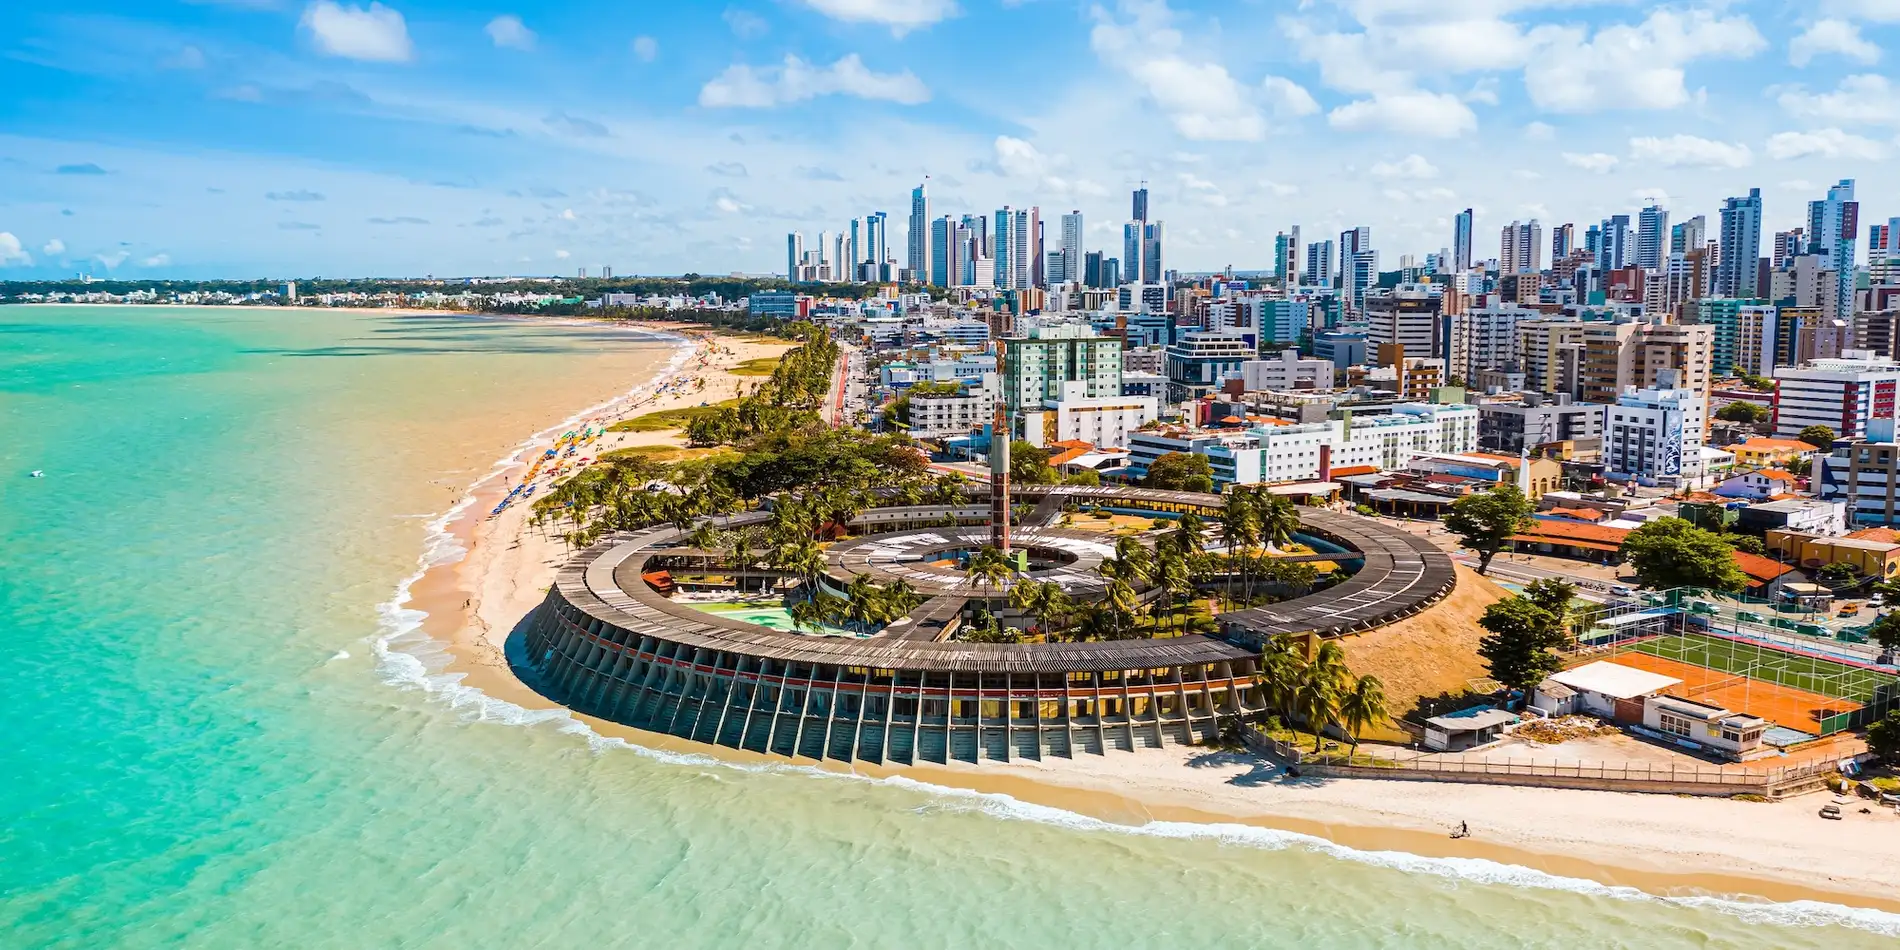
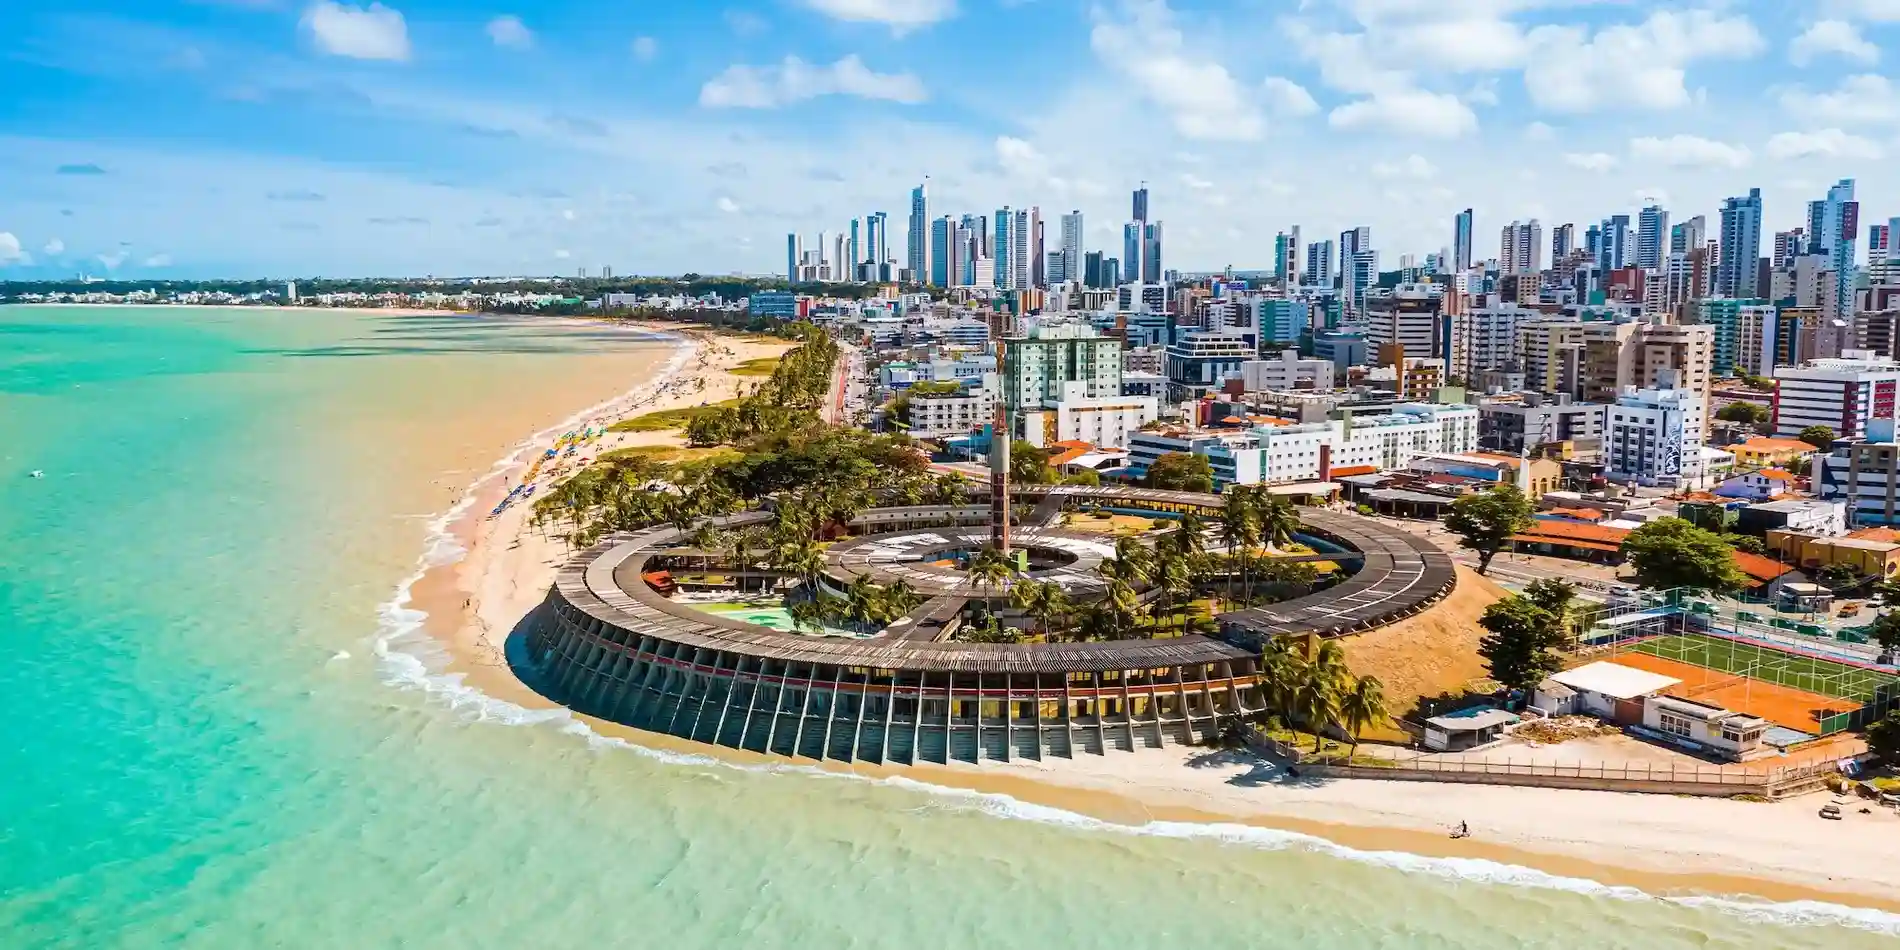
Update navigation links, enhance styles, and optimize images for better user experience

diff --git a/chamber/index.html b/chamber/index.html
@@ -12,7 +12,7 @@
     <meta property="og:type" content="website">
     <meta property="og:title" content="Home | João Pessoa Chamber of Commerce">
     <meta property="og:description" content="Connect with local businesses and discover opportunities in João Pessoa, Paraíba.">
-    <meta property="og:image" content="https://www.civitatis.com/blog/wp-content/uploads/2025/05/shutterstock_2360068173.jpg">
+    <meta property="og:image" content="https://aokami-aka.github.io/wdd231/chamber/images/chamber-logo.svg">
     <meta property="og:url" content="https://aokami-aka.github.io/wdd231/chamber/index.html">
 
     <title>Home | João Pessoa Chamber of Commerce</title>
@@ -49,12 +49,12 @@
 
         <nav class="primary-nav" id="primaryNav" aria-label="Main navigation">
             <a href="index.html" aria-current="page">Home</a>
-            <a href="" style="color: var(--nolink)">Discover</a>
+            <a href="discover.html">Discover</a>
             <a href="directory.html">Directory</a>
-            <a href="" style="color: var(--nolink)">Join</a>
-            <a href="" style="color: var(--nolink)">About</a>
-            <a href="" style="color: var(--nolink)">Podcast</a>
-            <a href="" style="color: var(--nolink)">Events</a>
+            <a href="join.html">Join</a>
+            <a href="about.html">About</a>
+            <a href="podcast.html">Podcast</a>
+            <a href="events.html">Events</a>
         </nav>
     </header>
 

diff --git a/chamber/styles/small.css b/chamber/styles/small.css
@@ -4,12 +4,8 @@
     --ink: #17212b;
     --nav: #183b4e;
     --nav-hover: #28596e;
-    --accent: #d97706;
-    --paper: #ffffff;
-    --surface: #eef2f4;
-    --line: #c8d2d8;
+    --accent: #a64b00;
     --muted: #485661;
-    --nolink: #c7c7c7;
 }
 
 * {
@@ -302,20 +298,26 @@ h1 {
 
 .member-grid.list-view {
     grid-template-columns: 1fr;
-    gap: .65rem;
+    gap: .5rem;
 }
 
 .list-view .member-card {
-    display: grid;
-    grid-template-columns: 1fr;
+    display: block;
 }
 
 .list-view .member-heading {
-    text-align: center;
+    border-bottom: 0;
+    text-align: left;
+    padding-left: 1rem;
 }
 
 .list-view .member-details {
-    grid-template-columns: 5rem minmax(0, 1fr);
+    display: block;
+    padding: .55rem 1rem;
+}
+
+.list-view .member-logo {
+    display: none;
 }
 
 /* FOOTER */
@@ -468,7 +470,7 @@ h1 {
     display: inline-block;
     padding: .75rem 1.3rem;
     color: white;
-    background: var(--accent);
+    background-color: #a64b00;
     border-radius: .4rem;
     text-decoration: none;
     font-weight: 700;
@@ -751,4 +753,18 @@ h1 {
         grid-template-columns: 3.5rem minmax(0, 1fr);
         gap: .5rem;
     }
+}
+
+/* List view: completely remove business images and their space */
+.member-grid.list-view .member-details {
+    display: block;
+}
+
+.member-grid.list-view .member-logo {
+    display: none !important;
+}
+
+.member-grid.list-view .member-info {
+    width: 100%;
+    min-width: 0;
 }

diff --git a/chamber/directory.html b/chamber/directory.html
@@ -36,12 +36,12 @@
     </button>
     <nav class="primary-nav" id="primaryNav" aria-label="Main navigation">
       <a href="index.html">Home</a>
-      <a href="" style="color: var(--nolink)">Discover</a>
+      <a href="discover.html">Discover</a>
       <a href="directory.html" aria-current="page">Directory</a>
-      <a href="" style="color: var(--nolink)">Join</a>
-      <a href="" style="color: var(--nolink)">About</a>
-      <a href="" style="color: var(--nolink)">Podcast</a>
-      <a href="" style="color: var(--nolink)">Events</a>
+      <a href="join.html">Join</a>
+      <a href="about.html">About</a>
+      <a href="podcast.html">Podcast</a>
+      <a href="events.html">Events</a>
     </nav>
   </header>
 

diff --git a/chamber/styles/larger.css b/chamber/styles/larger.css
@@ -1,3 +1,5 @@
+
+
 /* Larger-screen layout and horizontal navigation */
 
 @media (min-width: 40rem) {
@@ -61,11 +63,6 @@
         grid-template-columns: 1fr;
     }
 
-    .list-view .member-card {
-        grid-template-columns: minmax(12rem, 1fr) 2fr;
-        align-items: center;
-    }
-
     .list-view .member-heading {
         text-align: left;
         padding: .8rem 1rem;
@@ -116,14 +113,6 @@
 
     .member-grid.list-view {
         grid-template-columns: 1fr;
-    }
-
-    .list-view .member-card {
-        grid-template-columns: minmax(14rem, 1fr) 2fr;
-    }
-
-    .list-view .member-details {
-        grid-template-columns: 6rem minmax(0, 1fr);
     }
 }
 
